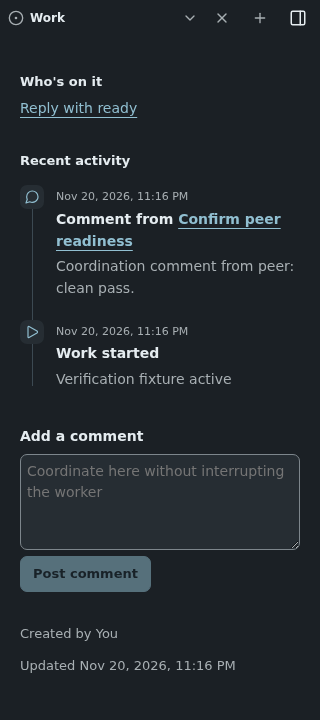
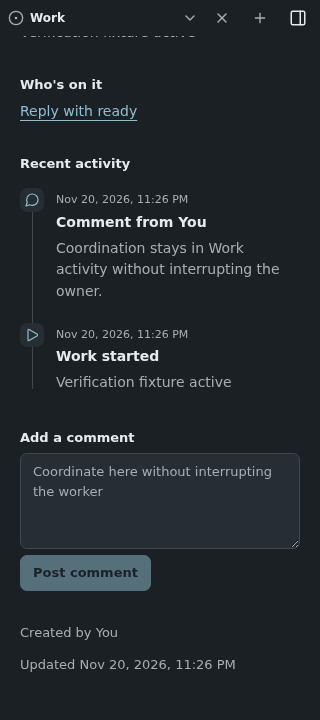
Use shared text area for Work comments

diff --git a/web/src/components/mux-chat-coordination.ts b/web/src/components/mux-chat-coordination.ts
@@ -8,9 +8,11 @@ import { renderSegments } from '../lib/markdown-view.js';
 import '../ui/button.js';
 import '../ui/range-field.js';
 import '../ui/select.js';
+import '../ui/text-area.js';
 import './work-goal-review.js';
 import type { MuxUIRangeField } from '../ui/range-field.js';
 import type { MuxUISelect } from '../ui/select.js';
+import type { MuxUITextArea } from '../ui/text-area.js';
 
 type WorkActor = { kind: 'chat' | 'remote-chat' | 'human' | 'external-tool'; sessionId?: string };
 type WorkDispatch = { clientRef: string; sessionId: string; state: string; detail?: string; selectionReason?: string; contextWorkId?: string; fallback?: string; configuration?: { harness: string; provider: string; bundle?: string; model?: string; effort?: string } };
@@ -168,8 +170,7 @@ export class MuxChatCoordination extends LitElement {
     .activity-markdown .md-h { margin:var(--ui-space-4) 0 var(--ui-space-2); font-size:var(--ui-text-lg); }
     .activity-evidence { margin-top:var(--ui-space-3); font-size:var(--ui-text-md); }
     .comment-form { margin-top:var(--ui-space-6); display:grid; gap:var(--ui-space-3); }
-    .comment-form label { font-weight:650; }
-    .comment-form textarea { width:100%; min-height:6rem; padding:var(--ui-space-3); border:1px solid var(--ui-border-strong); border-radius:var(--ui-radius-md); background:var(--ui-surface-raised); color:var(--ui-text); font:inherit; resize:vertical; }
+    .comment-form mux-ui-text-area { width:100%; }
     .comment-form mux-ui-button { justify-self:start; }
     .comment-body { white-space:pre-wrap; overflow-wrap:anywhere; }
     .error { margin:var(--ui-space-5) 0; color:var(--ui-danger); }
@@ -361,7 +362,7 @@ export class MuxChatCoordination extends LitElement {
       ${item.ownerSessionId || item.dispatch?.sessionId ? html`<section class="section"><h3>Who's on it</h3><p>${this.chatLink(item.ownerSessionId || item.dispatch!.sessionId)}</p></section>` : nothing}
       ${item.dispatch?.selectionReason ? html`<section class="section"><h3>Worker selection</h3><p>${item.dispatch.selectionReason}</p>${item.dispatch.configuration ? html`<p>${item.dispatch.configuration.harness} · ${item.dispatch.configuration.provider} · bundle ${item.dispatch.configuration.bundle || 'none'} · model ${item.dispatch.configuration.model || 'none'} · effort ${item.dispatch.configuration.effort || 'none'}</p>` : nothing}${item.dispatch.fallback ? html`<p>Fallback: ${item.dispatch.fallback}</p>` : nothing}</section>` : nothing}
       ${item.dependsOn?.length ? html`<section class="section"><h3>Before this can start</h3><p>${this.dependencyLinks(item.dependsOn)}${item.waitingOn?.length ? ` · ${item.waitingOn.length} still in progress` : ' · all complete'}</p></section>` : nothing}
-      <section class="section"><h3>Recent activity</h3><ol class="timeline">${updates.length ? updates.map(update => this.timelineEntry(update)) : html`<li><span class="timeline-icon">${icon('work')}</span><div><time>${this.date(item.createdAt)}</time><strong>Added to work</strong><p>${item.source || 'Created for this project.'}</p></div></li>`}</ol><div class="comment-form"><label for="work-comment">Add a comment</label><textarea id="work-comment" .value=${this.commentDraft} @input=${(event: Event) => { this.commentDraft = (event.target as HTMLTextAreaElement).value; this.commentRef = ''; }} placeholder="Coordinate here without interrupting the worker"></textarea><mux-ui-button variant="primary" ?disabled=${!this.commentDraft.trim() || this.commentSending} @click=${() => void this.postComment()}>${this.commentSending ? 'Posting…' : 'Post comment'}</mux-ui-button></div></section>
+      <section class="section"><h3>Recent activity</h3><ol class="timeline">${updates.length ? updates.map(update => this.timelineEntry(update)) : html`<li><span class="timeline-icon">${icon('work')}</span><div><time>${this.date(item.createdAt)}</time><strong>Added to work</strong><p>${item.source || 'Created for this project.'}</p></div></li>`}</ol><div class="comment-form"><mux-ui-text-area label="Add a comment" .value=${this.commentDraft} .rows=${4} placeholder="Coordinate here without interrupting the worker" @input=${(event: Event) => { this.commentDraft = (event.target as MuxUITextArea).value; this.commentRef = ''; }}></mux-ui-text-area><mux-ui-button variant="primary" ?disabled=${!this.commentDraft.trim() || this.commentSending} @click=${() => void this.postComment()}>${this.commentSending ? 'Posting…' : 'Post comment'}</mux-ui-button></div></section>
       ${item.labels?.length ? html`<section class="section"><h3>Labels</h3><div class="tags">${item.labels.map(label => html`<span class="tag">${label}</span>`)}</div></section>` : nothing}
       <div class="facts"><span>Created by ${this.actor(item.createdBy)}</span><span>Updated ${this.date(item.updatedAt)}</span></div>
     </article>`;
